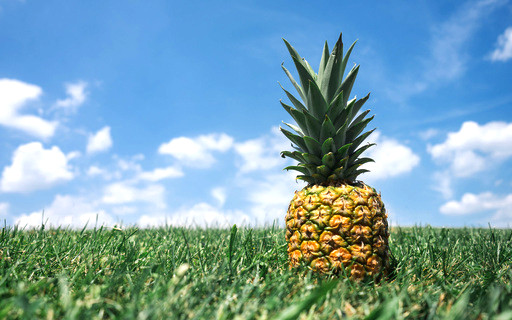
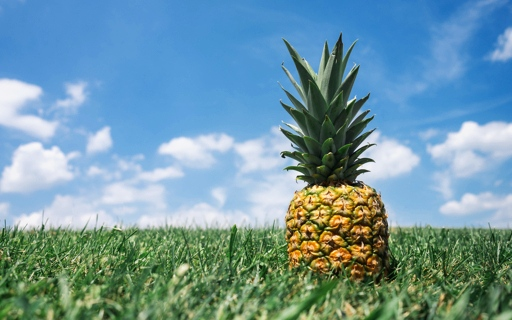
update readme

diff --git a/README.md b/README.md
@@ -25,7 +25,7 @@ im.filter(lut).save('./res/pineapple.hefe.jpeg')
 from PIL import Image
 from pillow_lut import rgb_color_enhance
 
-lut = rgb_color_enhance(11, contrast=0.1, vibrance=0.5, gamma=1.3, brightness=0.05)
+lut = rgb_color_enhance(11, exposure=0.2, contrast=0.1, vibrance=0.5, gamma=1.3)
 im = Image.open('./res/pineapple.jpeg')
 im.filter(lut).save('./res/pineapple.enhance.jpeg')
 ```
